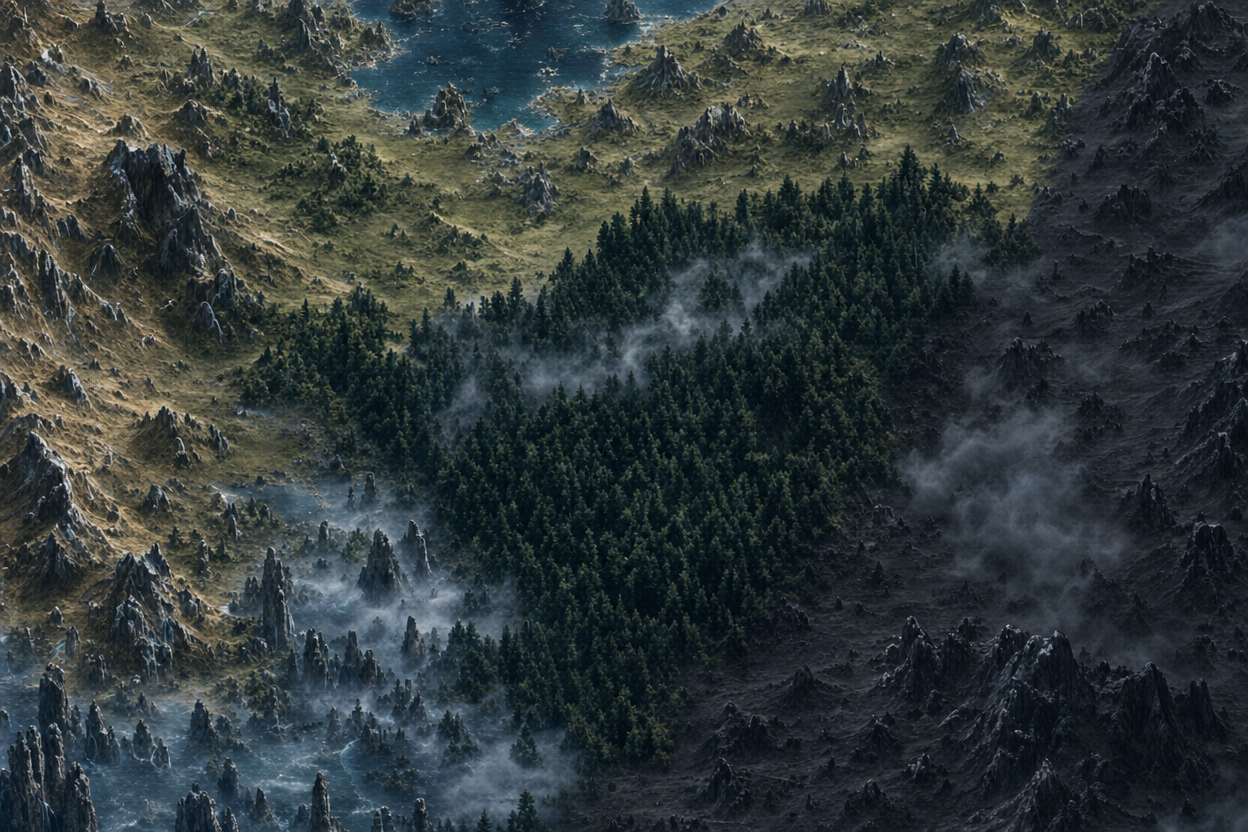
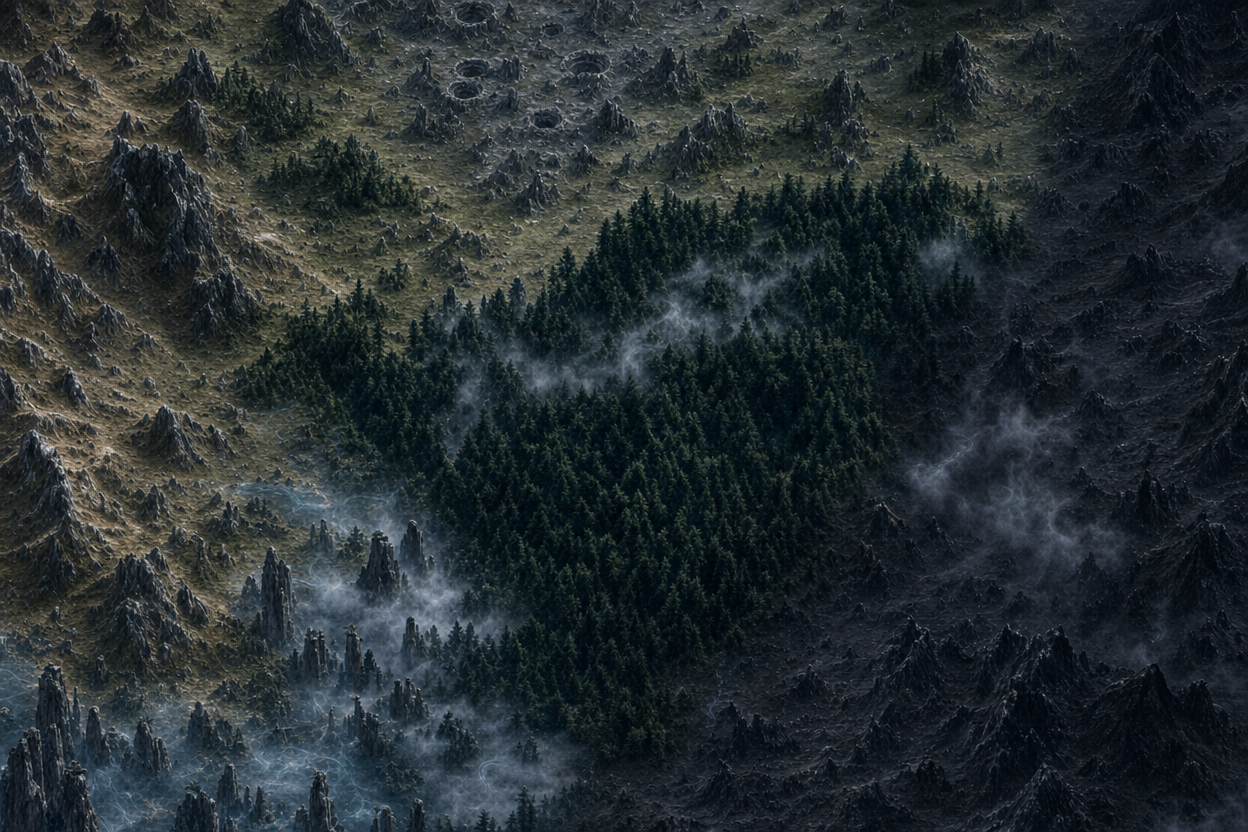
A5.1: Stone Eyes as karst sinkholes, and map lines that read
GPT painted Stone Eyes, a small slate-blue karst patch in the guide, as
a lake. Tiles 1-1 and 1-2 repainted with the water painted out of their
references and a note saying what is there (map-paint.ts --ref, --note),
and the region painting patched from them (tools/map-patch.ts). Roads,
the course's dots and the sight ring now sit on dark casings so they
read on the lit land. The new tiles' chunks follow.

diff --git a/tools/map-patch.ts b/tools/map-patch.ts
@@ -1,0 +1,92 @@
+// Lays repainted detail tiles back into their region's painting (A5.1, Stone Eyes' lake): each
+// painting pixel the tile covers takes the tile's colour, through both fits and the tile's tone,
+// feathered at the tile's edges as its chunks are, so the painting under the tiles agrees with them
+// where they fade. Run tools/map-chunks.ts <region> after, to ship the painting.
+//   npx tsx tools/map-patch.ts <region-id> <tile-id> [<tile-id> ...]
+import { readFileSync } from 'node:fs';
+import sharp from 'sharp';
+import { guideJson, paintingPng, tilesJson, workDir } from './map-paths.ts';
+
+/** The feathered edge, as a share of the tile's short side (tools/map-chunks.ts). */
+const FEATHER = 0.07;
+
+type Fit = [number, number, number, number, number, number];
+interface Frame {
+  W: number;
+  H: number;
+  k: number;
+  x0: number;
+  y0: number;
+  fit?: number[];
+}
+
+const [region, ...ids] = process.argv.slice(2);
+if (!region || !ids.length) throw new Error('usage: tsx tools/map-patch.ts <region-id> <tile-id> ...');
+const guide = JSON.parse(readFileSync(guideJson(region), 'utf8')) as Frame;
+const tiles = (JSON.parse(readFileSync(tilesJson(region), 'utf8')) as {
+  tiles: (Frame & { id: string; tone?: number[] })[];
+}).tiles;
+
+const apply = (m: Fit, x: number, y: number): [number, number] => [
+  m[0] * x + m[2] * y + m[4],
+  m[1] * x + m[3] * y + m[5],
+];
+const invert = (m: Fit): Fit => {
+  const [a, b, c, d, e, f] = m;
+  const det = a * d - b * c;
+  return [d / det, -b / det, -c / det, a / det, (c * f - d * e) / det, (b * e - a * f) / det];
+};
+
+const paint = await sharp(paintingPng(region)).removeAlpha().raw().toBuffer({ resolveWithObject: true });
+const PW = paint.info.width;
+const PH = paint.info.height;
+const px = paint.data;
+const toGuide = invert((guide.fit ?? [1, 0, 0, 1, 0, 0]) as Fit);
+
+for (const id of ids) {
+  const t = tiles.find((x) => x.id === id);
+  if (!t) throw new Error(`${region} has no tile ${id}`);
+  // A little blur first, since the painting samples the tile about three times coarser.
+  const img = await sharp(`${workDir(region)}/tile-${id}.png`)
+    .removeAlpha()
+    .blur(1.2)
+    .raw()
+    .toBuffer({ resolveWithObject: true });
+  const TW = img.info.width;
+  const TH = img.info.height;
+  const tfit = (t.fit ?? [1, 0, 0, 1, 0, 0]) as Fit;
+  const tone = t.tone;
+  const f = Math.min(t.W, t.H) * FEATHER;
+  let n = 0;
+  for (let y = 0; y < PH; y++)
+    for (let x = 0; x < PW; x++) {
+      // Painting pixel to guide pixel to the world, then to the tile's guide pixel.
+      const [gx, gy] = apply(toGuide, x + 0.5, y + 0.5);
+      const wx = gx / guide.k + guide.x0;
+      const wy = gy / guide.k + guide.y0;
+      const ux = (wx - t.x0) * t.k;
+      const uy = (wy - t.y0) * t.k;
+      if (ux < 0 || uy < 0 || ux >= t.W || uy >= t.H) continue;
+      const w = Math.min(1, ux / f, uy / f, (t.W - ux) / f, (t.H - uy) / f);
+      // The tile's guide pixel to its painting's pixel, sampled bilinearly.
+      const [sx, sy] = apply(tfit, ux, uy);
+      const x1 = Math.floor(sx);
+      const y1 = Math.floor(sy);
+      if (x1 < 0 || y1 < 0 || x1 >= TW - 1 || y1 >= TH - 1) continue;
+      const fx = sx - x1;
+      const fy = sy - y1;
+      const i = (y * PW + x) * 3;
+      for (let c = 0; c < 3; c++) {
+        const s = (xx: number, yy: number) => img.data[(yy * TW + xx) * 3 + c]!;
+        let v =
+          (s(x1, y1) * (1 - fx) + s(x1 + 1, y1) * fx) * (1 - fy) +
+          (s(x1, y1 + 1) * (1 - fx) + s(x1 + 1, y1 + 1) * fx) * fy;
+        if (tone) v = tone[c * 2]! * v + tone[c * 2 + 1]!;
+        px[i + c] = Math.max(0, Math.min(255, px[i + c]! * (1 - w) + v * w));
+      }
+      n++;
+    }
+  console.log(`${region} tile ${id}: ${n} painting pixels patched`);
+}
+await sharp(px, { raw: { width: PW, height: PH, channels: 3 } }).png().toFile(paintingPng(region));
+console.log(`wrote ${paintingPng(region)}`);

diff --git a/src/ui/map/draw.ts b/src/ui/map/draw.ts
@@ -384,19 +384,20 @@ export function drawMap(f: Frame, s: Scene): boolean {
     ctx.restore();
   }
 
-  // Roads.
+  // Roads: a dark casing under a pale core, so they read on the lit painting (Jan's note in A5.1).
   for (const r of map.roads) {
     const st = known(life, r.id);
     if (st === 'unknown') continue;
     pathLine(ctx, f, r.pts);
     ctx.save();
     ctx.lineCap = 'round';
-    ctx.strokeStyle = 'rgba(0,0,0,0.6)';
-    ctx.lineWidth = 3.2;
+    ctx.lineJoin = 'round';
+    ctx.strokeStyle = 'rgba(4,5,7,0.78)';
+    ctx.lineWidth = 5;
     ctx.stroke();
-    ctx.setLineDash(st === 'sketched' ? [3, 4] : []);
-    ctx.strokeStyle = rgba(C.road, st === 'seen' ? 0.72 : 0.45);
-    ctx.lineWidth = 1.4;
+    ctx.setLineDash(st === 'sketched' ? [4, 4] : []);
+    ctx.strokeStyle = st === 'seen' ? 'rgba(244,232,204,0.95)' : 'rgba(244,232,204,0.6)';
+    ctx.lineWidth = 2;
     ctx.stroke();
     ctx.restore();
   }
@@ -559,19 +560,26 @@ export function drawMap(f: Frame, s: Scene): boolean {
   // Your course and you.
   const course = life.course;
   if (course) {
+    // The course's dots, each on a dark bead so it reads over gold grass (Jan's note in A5.1).
     pathLine(ctx, f, [life.at, ...course.pts.slice(course.at)]);
     ctx.save();
-    ctx.setLineDash([2, 6]);
     ctx.lineCap = 'round';
-    ctx.strokeStyle = rgba(C.accent, 0.95);
-    ctx.lineWidth = 2.2;
+    ctx.setLineDash([2, 7]);
+    ctx.strokeStyle = 'rgba(4,5,7,0.85)';
+    ctx.lineWidth = 6.5;
+    ctx.stroke();
+    ctx.strokeStyle = '#f5c95a';
+    ctx.lineWidth = 3;
     ctx.stroke();
     ctx.restore();
     const [x, y] = at(course.to);
     ctx.beginPath();
     ctx.arc(x, y, 6, 0, 7);
-    ctx.strokeStyle = C.accent;
-    ctx.lineWidth = 1.5;
+    ctx.strokeStyle = 'rgba(4,5,7,0.85)';
+    ctx.lineWidth = 4;
+    ctx.stroke();
+    ctx.strokeStyle = '#f5c95a';
+    ctx.lineWidth = 1.8;
     ctx.stroke();
     ctx.beginPath();
     ctx.arc(x, y, 2, 0, 7);
@@ -584,12 +592,19 @@ export function drawMap(f: Frame, s: Scene): boolean {
     if (r > 6) {
       ctx.beginPath();
       ctx.arc(x, y, r, 0, 7);
-      ctx.setLineDash([1, 5]);
-      ctx.strokeStyle = rgba(C.crack, 0.5);
-      ctx.lineWidth = 1;
+      ctx.setLineDash([2, 5]);
+      ctx.strokeStyle = 'rgba(4,5,7,0.7)';
+      ctx.lineWidth = 3.5;
+      ctx.stroke();
+      ctx.strokeStyle = rgba(C.crack, 0.9);
+      ctx.lineWidth = 1.4;
       ctx.stroke();
       ctx.setLineDash([]);
     }
+    ctx.beginPath();
+    ctx.arc(x, y, 8, 0, 7);
+    ctx.fillStyle = 'rgba(4,5,7,0.75)';
+    ctx.fill();
     ctx.beginPath();
     ctx.arc(x, y, 5.5, 0, 7);
     ctx.fillStyle = C.accent;

diff --git a/tools/map-paint.ts b/tools/map-paint.ts
@@ -2,7 +2,7 @@
 // tile from its reference. The key is OPENROUTER_API_KEY in .env.local, read here and never printed.
 //   npx tsx tools/map-paint.ts region <region-id> <out.png> [--take A|B|C|D] [--style <painting.png>]
 //     [--with <neighbour painting.png> ...]
-//   npx tsx tools/map-paint.ts tile <region-id> <tile-id> [<out.png>]
+//   npx tsx tools/map-paint.ts tile <region-id> <tile-id> [<out.png>] [--note <text>] [--ref <png>]
 // About $0.21 and a minute or two an image with openai/gpt-5.4-image-2.
 import { readFileSync } from 'node:fs';
 import sharp from 'sharp';
@@ -156,16 +156,22 @@ if (mode === 'region' && region && a) {
     a,
   );
 } else if (mode === 'tile' && region && a) {
+  // --note "<text>" adds a line to the prompt for this tile (a place GPT got wrong, A5.1's Stone
+  // Eyes); --ref <png> stands in for the reference (one with the wrong thing painted out).
+  const flag = (f: string) => (rest.includes(f) ? rest[rest.indexOf(f) + 1] : undefined);
+  const note = flag('--note');
   const dir = workDir(region);
-  const out = rest[0] ?? `${dir}/tile-${a}.png`;
+  const out =
+    rest.find((v, i) => !v.startsWith('--') && !rest[i - 1]?.startsWith('--')) ??
+    `${dir}/tile-${a}.png`;
   await paint(
-    TILE_PROMPT,
-    [`${dir}/tile-${a}-ref.png`, `${dir}/tile-${a}-guide.png`, 'art/concepts/map-1.webp'],
+    note ? `${TILE_PROMPT}\n\n${note}` : TILE_PROMPT,
+    [flag('--ref') ?? `${dir}/tile-${a}-ref.png`, `${dir}/tile-${a}-guide.png`, 'art/concepts/map-1.webp'],
     '3:2',
     out,
   );
 } else {
   throw new Error(
-    'usage: map-paint.ts region <region> <out.png> [--take D] [--style <png>] [--with <png>...] | tile <region> <tile> [<out.png>]',
+    'usage: map-paint.ts region <region> <out.png> [--take D] [--style <png>] [--with <png>...] | tile <region> <tile> [<out.png>] [--note <text>] [--ref <png>]',
   );
 }

diff --git a/plan.md b/plan.md
@@ -184,6 +184,7 @@ Write questions here when a phase hits something the design doesn't cover, with 
 - **Small things for later.** Orb kinds are all worth one orb until the tier 2 Breath nodes are built, and lightning orbs and knots wait for the storm card and Unknotting (P1.10). The sun rises on the left everywhere (A3; it rose on the right until then); an abode's facing could turn it once M4's sites exist, and the realm vocabularies share the floor with its light, so keep the layer order: wash and floor under the figure, rim on it, qi over all (P1.12). The scene's and the seat's numbers are starting values to tune by feel (P1.10, P1.11).
 - **Open after A5, for later.** (1) A region's file carries only the atlas places filed under it, so a ridge or river crossing in from a neighbour (Jade Screen Ridge into the Border Wilds) is in the painting but not the game's data: the region file should carry the ridges and rivers that cross it. (2) The Medicine Ridges' towns, roads and terrains are a draft for the map test only (`docs/mockups/medicine-ridges-draft.json`), not atlas data. (3) GPT's 16 mountain and karst sprite pieces (`src/ui/art/map/mountains`, `karst`, in the manifest) and the unnamed sheets in `art/inbox/` are unused since the painted region won; kept for now (Jan's call). They are why `npm run art` fails: 14 of the pieces are over an ornament's 30 KB, and the inbox sheets name no asset. Drop them, or give them a manifest entry and a budget, when someone next runs the ingest. (4) The upscale takes about 7 minutes a tile on Jan's PC; a hosted upscaler is the fallback if a region's tiles grow tedious. (5) Each painted region adds about 25 MB to the repository and to Pages; before the atlas fill paints many, move `public/map/` to its own host (a bucket or a release), which is only a change of the URL in `src/ui/map/art.ts`.
 - **The place pieces: drawn, waiting on their sheets** (A5.1; held in its talk, then wired after it). The map draws a place's piece (its own `map-place-<id>`, else its kind's `map-place-<sub>`, else only its seal), fading in from 0.035 to 0.06 px a li as its seal fades out. The two sheets are in the manifest with their prompts: `map-places-kinds` (village, checkpoint, cave, den, ruin, shrine, camp, graves) and `map-places-famous` (the City, the Wall, the Gate, the Night Bridge Society and the four towns). Until Jan paints them, `npm run art` reports their sources missing; once they land, the map's art passes 800 KB unless the 16 unused mountain and karst sprites go. The spec's pieces, Pacified Fort, a hills town and a karst cave, each standing at its place by the fallback and fading in as you zoom (`docs/mockups/map-prompts.md` § 2), are not made. How they are made (Jan's call after A5.1): as **sheets painted in ChatGPT**, eight pieces on a 4×2 grid on a transparent background, which Jan drops in `art/inbox/` and `npm run art` cuts; nothing goes through the API, which stays for what needs scripting (a region's painting and tiles). The fallback keeps the count small: one sheet of kinds (town, village, fort, cave, den, shrine, ruin, camp) and one of the famous places would dress the Border Wilds. On the map: a fort or city about 900 li across, a town 700, a cave or village 450; fading in from 0.035 to 0.06 px a li as the seal fades out, the name staying.
+- **A lone patch of karst reads as water** (A5.1). The guide paints karst slate blue; where it lies in broad tracts GPT paints pillar forests, but Stone Eyes, a small slate-blue patch among the hills, came back a lake. Fixed by repainting tiles 1-1 and 1-2 with a note (`--note`, `--ref`) and patching the painting (`tools/map-patch.ts`), about $0.44. Before the next region's painting, give the guide's karst a colour no one reads as water (a grey-violet, say) and say in the region prompt that the map has no lakes unless the guide shows a river or a sea.
 - **Gathering** (Jan's idea after A5.1's first look, for a talk). Gathering is now a side of the stances (Careful and Bold gather finds; Avoid only on the course); Jan wondered whether it should be its own thing, perhaps an hour kind on the road wheel like look around. A new mechanic, so not an A phase's. The Currently at panel he asked for is built (Journey's top), leaving room for a place's picture.
 - **Small calls in A5.1, for later phases to revisit.** The Card tab shows a card that waits or one opened from Ahead or its seal; Journey always shows, as Routine's Day does. Clicking Ahead's row opens the card rather than toggling it under the course. The zoom buttons' Region became All, fitting what you've charted; You centres you in the open part of the map. The fog is baked again when what you know changes (the places seen or sketched, the trail, where you stand to 1,000 li), at most every 1.5 s, in steps between frames (each 10 to 35 ms in the dev build), the last fog standing meanwhile; its fields are 300 li a pixel. The coast's surf and the old relief, marks and cloud fog are gone with `land.ts`; a region without a painting keeps a thin coast line. Next door's names come from the region file (`nextDoor`, written by `atlas:build`). The study's take P, brightness and shade knobs stay in `map-layout-study.html`.
 
@@ -215,7 +216,7 @@ Newest first. 3–5 lines per phase. M0 to M2 are one line a phase here; their f
   - The art moved: the pipeline's working files to `art/map/<region>/` (`tools/map-paths.ts`; every map tool reads and writes there), what ships to `public/map/<region>/` (the painting as a 0.29 MB webp and the 792 chunk files, 23 MB, committed). `map-chunks.ts` ships the painting and records each pyramid in `tiles.json`. The manifest gains `maps` with a region's budget, at most 25 MB, checked by `npm run art` (tested), and `map-clouds`, GPT's eight cloud banks (35 KB).
   - The game (`src/ui/map/art.ts`, `fog.ts`, `draw.ts`, `MapScreen.tsx`): the painting through its fit and the tiles from their pyramids, the plain land under them, the land lifted, the depth lines, then the fog from the save (veil, a little, still) and the regions and seas next door (`nextDoor` in the region file from `atlas:build`, tested). The zoom stops at 0.16 px a li and at what you've charted in the open part of the map. `land.ts`, the old relief, marks and cloud fog went; the Map's title line went too.
   - Checked in the browser at 1920×1080, 1280×720, 1920×1200 and 2560×1080: a course set by a click, a pan that sets none, the right-click menu, a card that opens its tab and closes back to Journey. A frame draws in about 5 ms at mid zoom and 11 ms zoomed out (dev build); the fog's bake is spread over steps.
-  - Jan's notes after his first look, done the same day: the card lit like Routine's glowing rows (a gilt hairline over its top with a haze off it); the Card tab always there, saying nothing waits when nothing does; the column against the rail (400 px from 8 px), over the void sky fading into the map, darker; the brand clear above it as on Cultivate; Going by renamed Mode of travel and made a dropdown of every way, the shut ones greyed with why (the Picker gained disabled options with a note); the routine's and the way's flavor line dropped. Then a second round: the column 36 px from the rail; the date gone (the top shows it); three tabs, **Journey** (Currently at: the place or land, the where line, its lore and the here choices shared with the right-click menu; then the course and Ahead), **Travel** (the wheel, routine, mode of travel and stance) and **Card**; Horse folded into Mount in the list, riding the best you own (no save change); and on Cultivate the breakthrough buttons side by side. The deserters at Pacified Fort were the session's own dev `meet`, removed from Jan's save. Asked, not built: gathering as its own thing (Open questions). Then a rule, Jan's call: the watch keeps the road a day's walk (240 li) round a town or city, so nothing hostile comes there (`hostile` on 12 templates, `TOWN_PEACE_LI`, tested).
+  - Jan's notes after his first look, done the same day: the card lit like Routine's glowing rows (a gilt hairline over its top with a haze off it); the Card tab always there, saying nothing waits when nothing does; the column against the rail (400 px from 8 px), over the void sky fading into the map, darker; the brand clear above it as on Cultivate; Going by renamed Mode of travel and made a dropdown of every way, the shut ones greyed with why (the Picker gained disabled options with a note); the routine's and the way's flavor line dropped. Then a second round: the column 36 px from the rail; the date gone (the top shows it); three tabs, **Journey** (Currently at: the place or land, the where line, its lore and the here choices shared with the right-click menu; then the course and Ahead), **Travel** (the wheel, routine, mode of travel and stance) and **Card**; Horse folded into Mount in the list, riding the best you own (no save change); and on Cultivate the breakthrough buttons side by side. The deserters at Pacified Fort were the session's own dev `meet`, removed from Jan's save. Asked, not built: gathering as its own thing (Open questions). Then: Stone Eyes painted as karst sinkholes rather than a lake (tiles 1-1 and 1-2 repainted, the painting patched, Open questions); roads, the course's dots and the sight ring on dark casings so they read on the lit land. And a rule, Jan's call: the watch keeps the road a day's walk (240 li) round a town or city, so nothing hostile comes there (`hostile` on 12 templates, `TOWN_PEACE_LI`, tested).
   - For A6: the place screen still sits in the map's padded main column; its own look is A6's. The pieces are in Open questions.
 - 2026-10-17, A5: The Map, as a study (split, Jan's call: A5.1 builds it into the game). The talk ran long and grew into the look itself. Code terrain surfaces and GPT sprites stood on a code ground were tried and dropped; the region is painted whole instead, and Jan picked take D of five (his first GPT painting's jutting relief at half the scale, tilted like a relief model, xianxia mood). Spent about $4 on images through OpenRouter (`openai/gpt-5.4-image-2`, with a new key in `.env.local`).
   - The pipeline (`docs/art-pipeline.md` § The travel map, memory note `map-painting-direction`): `tools/map-guide.ts` draws a region from the atlas as a flat guide (terrains, the sea, neighbours, ridges and rivers, roads red, a symbol a kind of place) and, with `--tiles`, cuts detail tiles with references; `tools/map-paint.ts` asks GPT for a region (take D, `--with` neighbours' paintings) or a tile; `tools/map-fit.ts` finds GPT's squash and shift (D came back 8% short) from the painted sea and land beyond, and a tile's fit and tone by color; `tools/map-upscale.ts` runs Real-ESRGAN x4plus (Qualcomm's ONNX build in `tools/models/`, git-ignored; `onnxruntime-node` added) at about 7 minutes a tile; `tools/map-chunks.ts` cuts each tile into a 512 px pyramid. The Border Wilds: 8 tiles, about $1.70, 23 MB of chunks (git-ignored, rebuilt by the tools).

diff --git a/docs/art-pipeline.md b/docs/art-pipeline.md
@@ -180,6 +180,7 @@ The land a painting shows is the region's own: the wild tracts' cells are seeded
 | 5. Tiles: a grid at 25 li a pixel, overlapping a tenth, skipping a tile under 8% region; each a guide and a reference cut from the fitted painting | `npx tsx tools/map-guide.ts <region> --tiles` | free |
 | 6. Each tile painted again closer, with the cultivation details, then fitted by color with its tone | `map-paint.ts tile <region> <id>`, then `map-fit.ts <region> --tile <id>` | ~$0.21 a tile |
 | 7. Each tile upscaled 4× (Real-ESRGAN x4plus, Qualcomm's ONNX build in `tools/models/`, git-ignored) and cut into a pyramid of 512 px chunks with its tone and feathered edges baked in | `map-upscale.ts`, then `map-chunks.ts <region> <id>` | ~7 min a tile on Jan's PC |
+| 7b. A tile GPT got wrong (A5.1: Stone Eyes' karst painted as a lake): paint the wrong thing out of its reference, repaint with a note saying what is there, fit, upscale and chunk it, then lay it back into the region painting so the old one can't show where tiles fade | `map-paint.ts tile <region> <id> --ref <fixed ref> --note "<what it is>"`, then `map-patch.ts <region> <id>` | ~$0.21 a tile |
 | 8. Ship: `map-chunks.ts` writes the painting as webp and the chunks to `public/map/<region>/` and each pyramid into `tiles.json`; add the region to the manifest's `maps` and run `npm run art` for its budget | `npx tsx tools/map-chunks.ts <region> [<tile> ...]` | seconds |
 
 The working files are in `art/map/<region>/` (`tools/map-paths.ts`): `guide.png` and `guide.json` (its frame, and the fit once painted), `painting.png`, `tiles.json` (each tile's frame, fit, tone and pyramid) and `tile-<id>.png` with its guide; the references and the upscaled tiles are git-ignored. A region is painted, to the game, once its guide has a fit.
